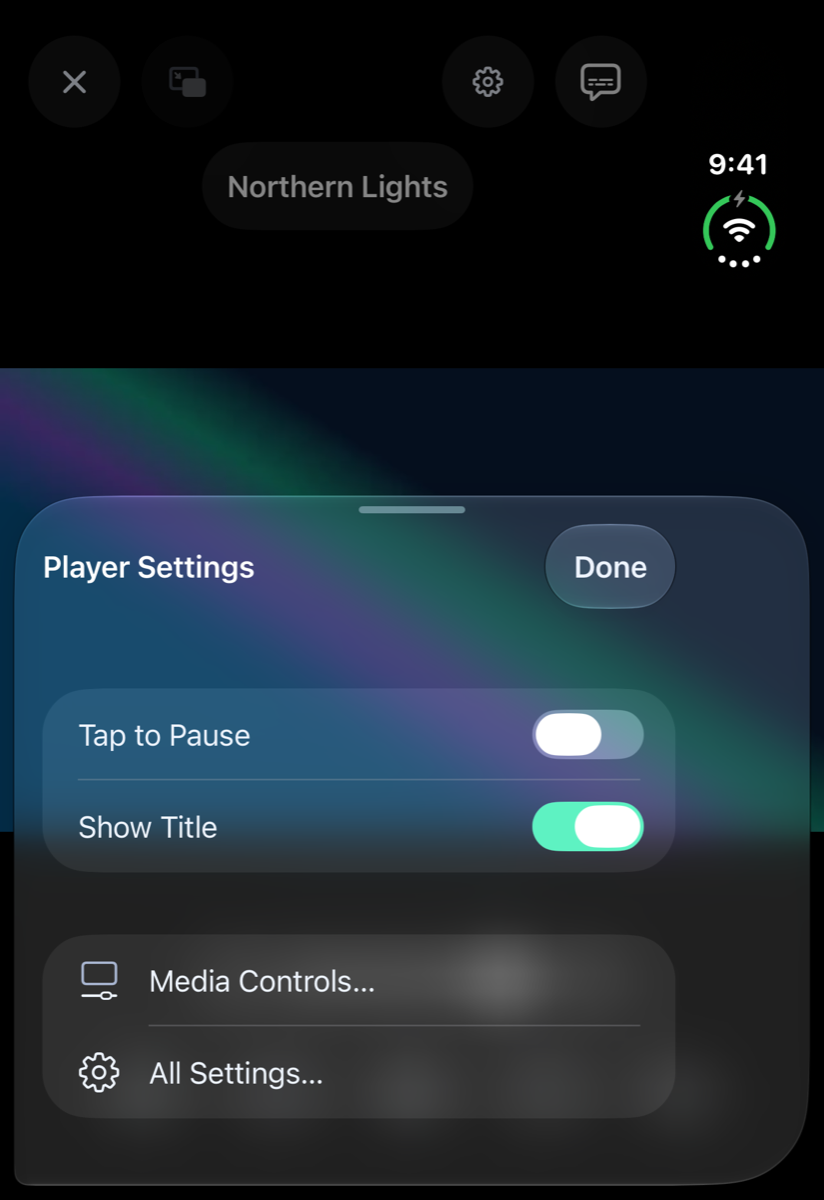
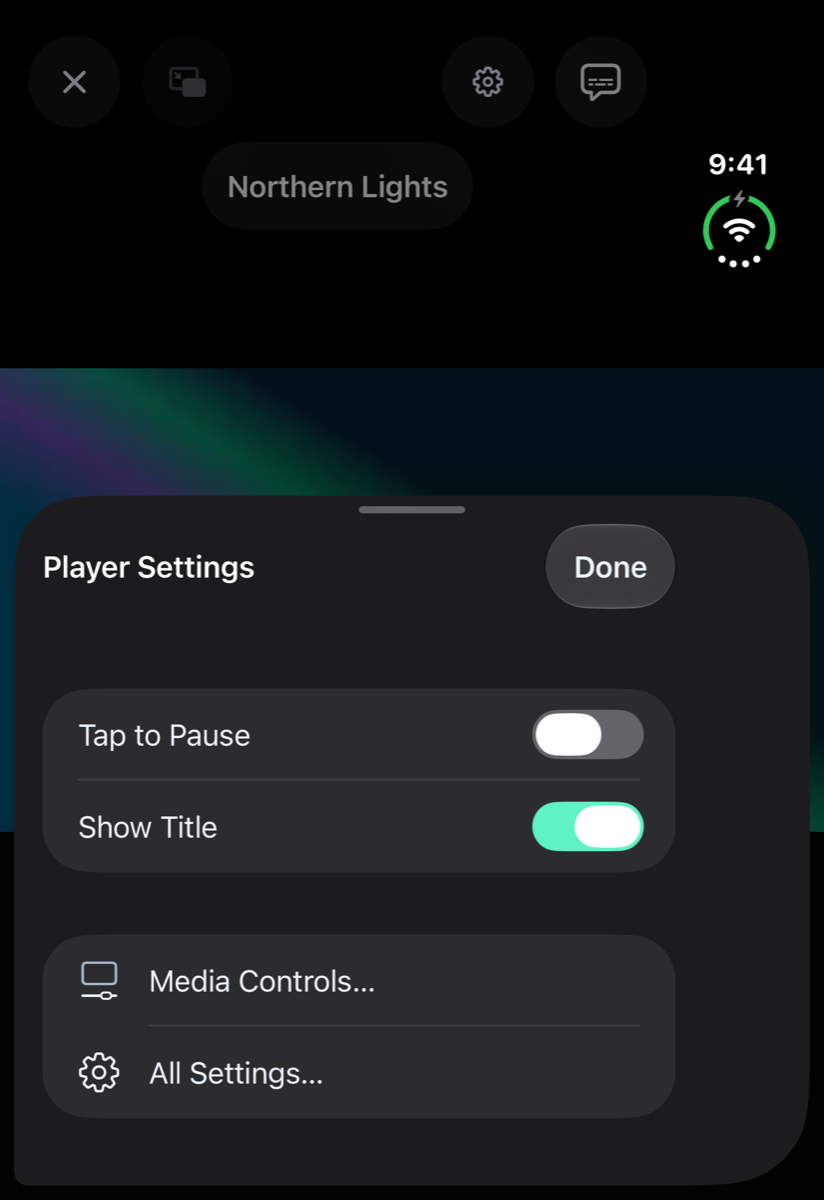
Publish the guide (from b7470a8)

Changed region(s): [[0.0, 0.4008, 1.0, 0.7092], [0.0303, 0.9867, 0.8192, 1.0], [0.3641, 0.7708, 0.6978, 0.8633]]

diff --git a/whats-new.md b/whats-new.md
@@ -12,6 +12,23 @@ The highlights of each MK Plus update since public TestFlight testing began (ver
 
 ## November 2026
 
+### Player Settings you can read over any video
+
+_Version 1.354.0 · 13 November 2026_
+
+- Player Settings and Playback Options are solid sheets: the video no longer moves behind their rows.
+
+<img src="images/iphone-18-pro-max/watch-player-settings.png" width="300" alt="Player Settings over a playing video on an iPhone 18 Pro Max, a solid sheet with Tap to Pause, Show Title, Media Controls and All Settings">
+
+<details markdown="1">
+<summary>Everything in 1.354.0</summary>
+
+**Changed**
+
+- Player Settings and Playback Options open as the same solid sheet, so their rows read clearly over a playing video.
+
+</details>
+
 ### Reading Options you can read on any page
 
 _Version 1.353.0 · 13 November 2026_
